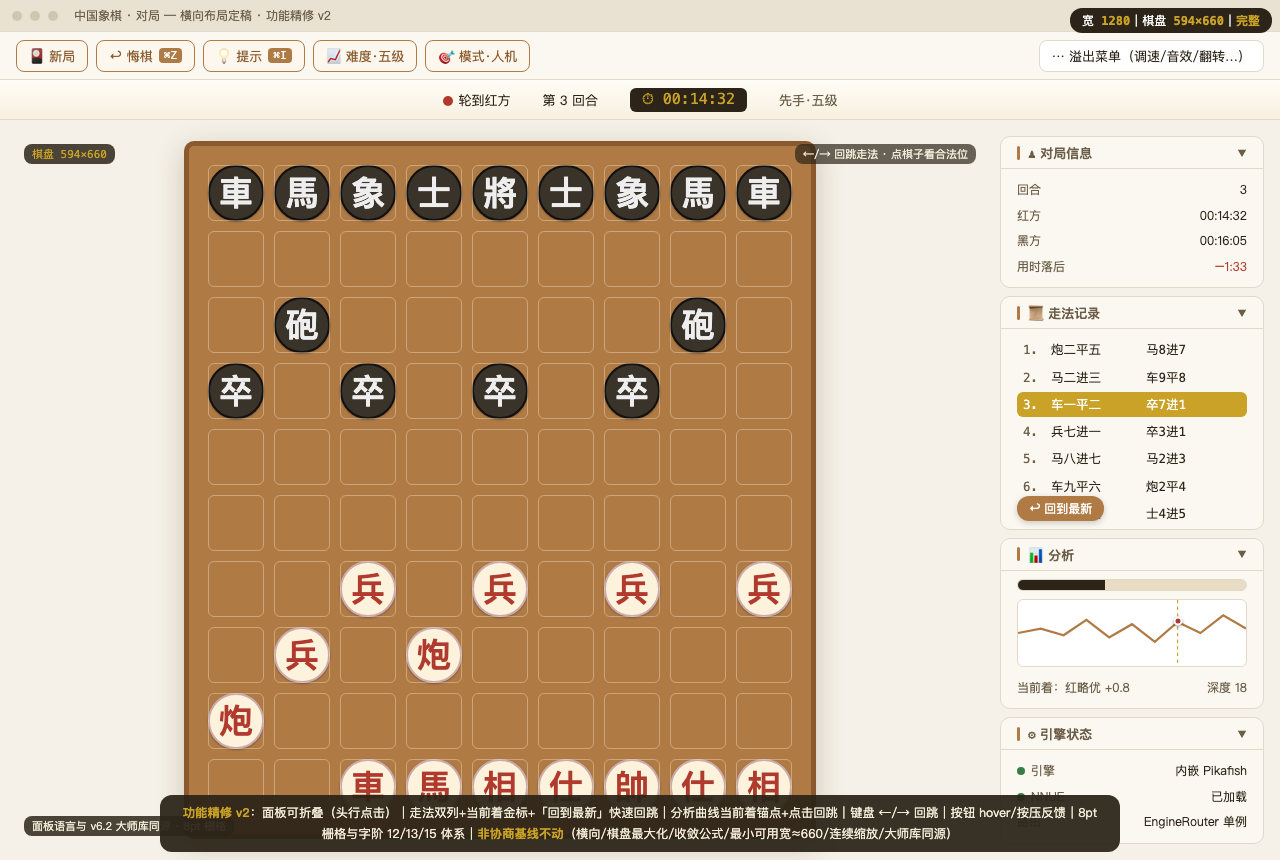
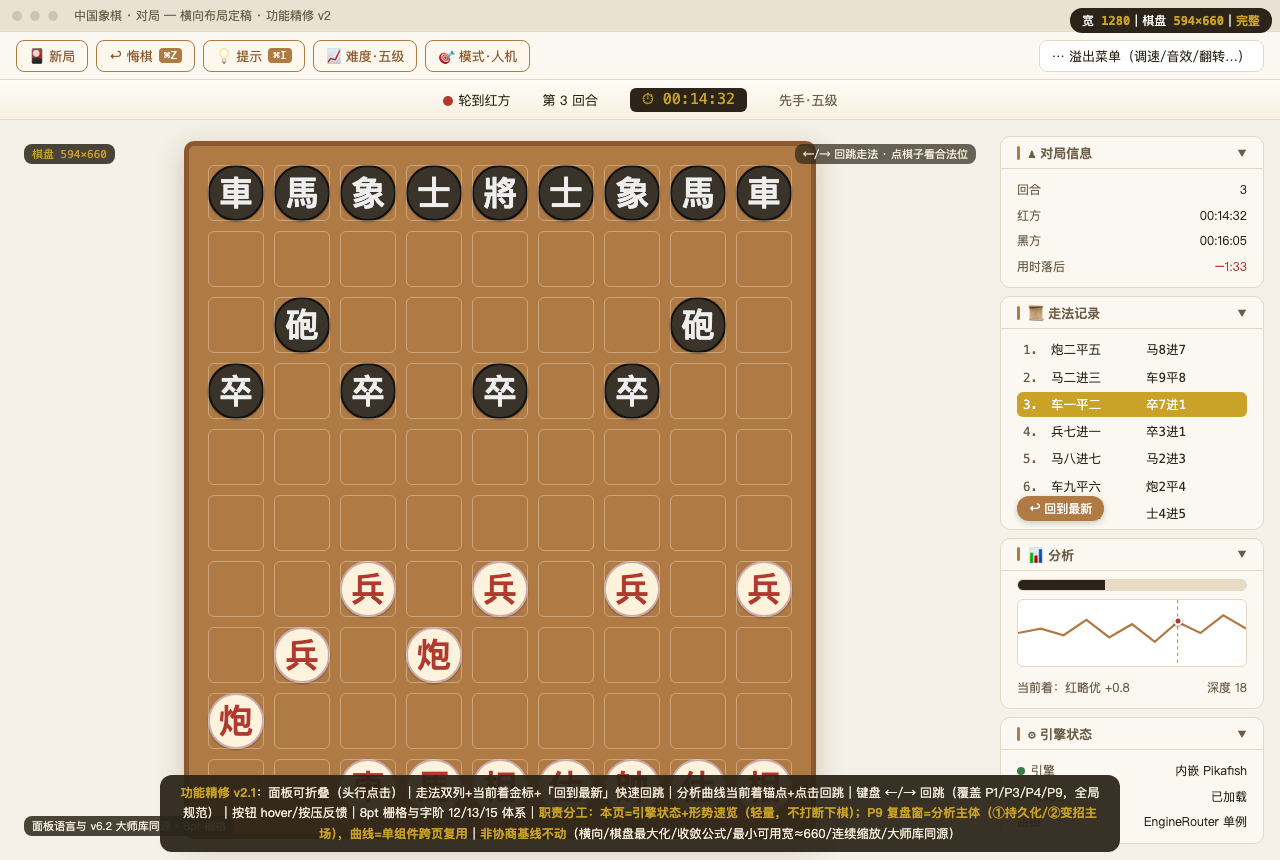
v6.4 layout: P2-P14 page prototypes (13 pages, P1 layout language; fixed note undefined)
[拆分注记 08-30] 原 8801f44 因并行窗口 add -A 误纳 Cody 四源文件（AssessmentStore/AnalysisPersistence/AnalysisViewModel/AnalysisPersistenceTests），已按 Luke 裁定 A 案拆分：本 commit 保留 layout docs 部分，Cody P2×4 修复独立成提交（自本拆分点）。后续 8bc34c3 变基重放。

Changed region(s): [[0.125, 0.8767, 0.875, 0.9977]]

diff --git a/docs/design/prototypes/v6.4-pages-p2-p14.html b/docs/design/prototypes/v6.4-pages-p2-p14.html
@@ -1,0 +1,301 @@
+<!DOCTYPE html>
+<html lang="zh-CN">
+<head>
+<meta charset="UTF-8">
+<title>v6.4 全页面原型 · P2-P14（布局语言=v6.4-p1-final v2.1：8pt 栅格/字阶 token/面板规格）</title>
+<style>
+  :root{--bg:#f5f1e8;--panel:#fbf8f1;--wood:#b07a45;--wood-d:#8a5a2e;--ink:#2c2418;--ink2:#6b5d48;
+    --line:#e2d9c8;--line2:#d4c8b0;--accent:#b03a2e;--gold:#c9a227;--ok:#3a7d44;
+    --s1:4px;--s2:8px;--s3:16px;--s4:24px;
+    --p-radius:10px;--p-head-h:32px;--fs-cap:12px;--fs-body:13px;--fs-title:15px;}
+  *{box-sizing:border-box;margin:0;padding:0}
+  html,body{height:100%}
+  body{background:var(--bg);color:var(--ink);font-family:"PingFang SC","Hiragino Sans GB",system-ui,sans-serif;overflow:hidden}
+  #nav{position:fixed;top:0;left:0;bottom:0;width:150px;background:var(--ink);z-index:99;display:flex;flex-direction:column;padding:12px 8px;gap:3px;overflow:auto}
+  #nav .brand{color:var(--gold);font-size:12px;font-weight:700;padding:4px 8px 10px}
+  #nav button{border:none;background:none;color:#cfc4ac;font-size:12px;text-align:left;padding:6px 10px;border-radius:7px;cursor:pointer;line-height:1.4}
+  #nav button:hover{background:rgba(255,255,255,.08)}
+  #nav button.on{background:var(--gold);color:var(--ink);font-weight:600}
+  .stage{position:fixed;inset:0 0 0 150px;display:flex;flex-direction:column}
+  .page{display:none;flex-direction:column;height:100vh}
+  .page.on{display:flex}
+  .titlebar{height:32px;background:#e9e2d2;border-bottom:1px solid var(--line);display:flex;align-items:center;padding:0 12px;font-size:12px;color:var(--ink2);gap:8px;flex:none}
+  .dot{width:9px;height:9px;border-radius:50%;background:#d0c6b0}
+  .toolbar{height:48px;display:flex;align-items:center;gap:var(--s2);padding:0 var(--s3);background:var(--panel);border-bottom:1px solid var(--line);flex:none}
+  .tb{height:32px;padding:0 12px;border:1px solid var(--line);border-radius:8px;background:#fff;font-size:var(--fs-body);display:flex;align-items:center;gap:6px;white-space:nowrap;cursor:pointer;transition:all .12s}
+  .tb:hover{border-color:var(--wood);background:#fdf7ee;transform:translateY(-1px);box-shadow:0 2px 6px rgba(138,90,46,.18)}
+  .tb.hot{border-color:var(--wood);color:var(--wood-d);background:#fdf7ee}
+  .tb .k{font-size:11px;color:#fff;background:var(--wood);border-radius:4px;padding:1px 5px;font-family:ui-monospace,monospace}
+  .search{flex:0 0 220px;height:32px;border:1px solid var(--line);border-radius:8px;background:#fff;display:flex;align-items:center;padding:0 10px;color:var(--ink2);font-size:13px;gap:6px}
+  .body{flex:1;display:flex;min-height:0;padding:var(--s3);gap:var(--s3)}
+  /* sidebar 分类（P2/P7/P13 统一语言） */
+  .sidebar{width:200px;background:var(--panel);border:1px solid var(--line);border-radius:var(--p-radius);padding:var(--s2);display:flex;flex-direction:column;gap:2px;flex:none;overflow:auto}
+  .sidebar .cat{padding:7px 10px;border-radius:7px;font-size:var(--fs-body);color:var(--ink);cursor:pointer;display:flex;justify-content:space-between;align-items:center}
+  .sidebar .cat:hover{background:#f3ebd9}
+  .sidebar .cat.on{background:var(--wood);color:#fff;font-weight:600}
+  .sidebar .cat .n{font-size:11px;opacity:.7}
+  .sidebar .search{flex:none;margin-bottom:6px}
+  /* 列表（右主区） */
+  .list{flex:1;background:var(--panel);border:1px solid var(--line);border-radius:var(--p-radius);overflow:auto;padding:var(--s2);display:flex;flex-direction:column;gap:var(--s2)}
+  .row{display:flex;align-items:center;gap:var(--s3);padding:10px var(--s3);border:1px solid var(--line);border-radius:8px;background:#fff;cursor:pointer;transition:all .12s}
+  .row:hover{border-color:var(--wood);transform:translateY(-1px);box-shadow:0 2px 6px rgba(138,90,46,.14)}
+  .row .t{font-size:var(--fs-body);font-weight:600}
+  .row .d{font-size:var(--fs-cap);color:var(--ink2);margin-top:2px}
+  .row .badge{margin-left:auto;font-size:11px;background:#f3ebd9;color:var(--wood-d);border-radius:10px;padding:2px 8px;white-space:nowrap}
+  /* 面板（大师库同源） */
+  .panel{background:var(--panel);border:1px solid var(--line);border-radius:var(--p-radius);display:flex;flex-direction:column;overflow:hidden}
+  .panel-h{height:var(--p-head-h);display:flex;align-items:center;padding:0 var(--s3);border-bottom:1px solid var(--line);font-size:var(--fs-body);font-weight:600;color:var(--ink2);gap:var(--s2);cursor:pointer;flex:none}
+  .panel-h:hover{background:#f6efe0}
+  .panel-h .tab{width:3px;height:14px;background:var(--wood);border-radius:2px}
+  .panel-h .chev{margin-left:auto;font-size:10px;color:var(--ink2)}
+  .panel-b{padding:var(--s2) var(--s3);font-size:var(--fs-body);line-height:1.8;overflow:auto}
+  /* 棋盘组件（P1 语言） */
+  .board{background:var(--wood);border:5px solid var(--wood-d);border-radius:10px;box-shadow:0 8px 28px rgba(90,60,20,.25)}
+  .grid{display:grid}
+  .cell{position:relative}.cell::after{content:"";position:absolute;inset:8%;border:1px solid rgba(255,248,230,.35);border-radius:6px}
+  .pc{position:absolute;inset:8%;border-radius:50%;display:flex;align-items:center;justify-content:center;font-weight:700;background:#fdf3dc;border:2px solid #caa;box-shadow:0 1px 2px rgba(0,0,0,.3);color:var(--accent)}
+  .pc.b{background:#3a332a;border-color:#111;color:#eee}
+  /* tab 组（P3/P4 右面板三 tab） */
+  .tabs{display:flex;gap:var(--s1);padding:var(--s2) var(--s3) 0}
+  .tabs .t2{padding:6px 12px;font-size:var(--fs-body);border-radius:8px 8px 0 0;cursor:pointer;color:var(--ink2);border:1px solid transparent}
+  .tabs .t2:hover{background:#f3ebd9}
+  .tabs .t2.on{background:var(--panel);border:1px solid var(--line);border-bottom-color:var(--panel);color:var(--wood-d);font-weight:600}
+  /* 卡片（P5/P11/P12） */
+  .cards{display:grid;grid-template-columns:repeat(auto-fill,minmax(220px,1fr));gap:var(--s3);overflow:auto;flex:1;align-content:start}
+  .card{background:var(--panel);border:1px solid var(--line);border-radius:var(--p-radius);padding:var(--s3);cursor:pointer;transition:all .12s;display:flex;flex-direction:column;gap:var(--s2)}
+  .card:hover{border-color:var(--wood);transform:translateY(-2px);box-shadow:0 4px 12px rgba(138,90,46,.16)}
+  .card.hero{grid-column:1/-1;flex-direction:row;align-items:center;background:linear-gradient(120deg,#fdf7ee,#f7ecd7);border-color:var(--wood)}
+  .card .ic{font-size:26px}
+  .card .t{font-size:var(--fs-title);font-weight:700}
+  .card .d{font-size:var(--fs-cap);color:var(--ink2);line-height:1.6}
+  .card .go{margin-left:auto;background:var(--wood);color:#fff;border-radius:14px;font-size:12px;padding:6px 14px;white-space:nowrap}
+  /* 进度/步骤（P5/P6） */
+  .steps{display:flex;gap:var(--s2)}
+  .step{flex:1;background:var(--panel);border:1px solid var(--line);border-radius:var(--p-radius);padding:var(--s3);text-align:center}
+  .step.on{border-color:var(--gold);background:#fdf8ea}
+  .step .n{font-size:18px;font-weight:800;color:var(--wood-d)}
+  .step .t{font-size:var(--fs-body);font-weight:600;margin-top:4px}
+  .step .d{font-size:var(--fs-cap);color:var(--ink2);margin-top:2px}
+  .bar{height:8px;background:#eee5d2;border-radius:4px;overflow:hidden}
+  .bar i{display:block;height:100%;background:var(--wood);border-radius:4px}
+  /* 棋树（P8） */
+  .tree{flex:0 0 320px;background:var(--panel);border:1px solid var(--line);border-radius:var(--p-radius);overflow:auto;padding:var(--s2)}
+  .tn{display:flex;gap:8px;padding:4px 8px;border-radius:6px;font-family:ui-monospace,monospace;font-size:12.5px;cursor:pointer;align-items:center}
+  .tn:hover{background:#f3ebd9}.tn.on{background:var(--gold);color:#fff}
+  .tn .in{width:14px;color:var(--ink2);font-size:10px}
+  .tn .ev{margin-left:auto;font-size:11px;color:var(--ink2)}
+  /* 图表（P11） */
+  .chart{height:90px;background:#fff;border:1px solid var(--line);border-radius:6px;position:relative;overflow:hidden}
+  .chart svg{position:absolute;inset:0;width:100%;height:100%}
+  .radar{width:110px;height:110px;flex:none}
+  .stat{display:flex;justify-content:space-between;font-size:var(--fs-cap);color:var(--ink2);padding:2px 0}
+  .stat .v{color:var(--ink)}
+  .dot-ok{display:inline-block;width:8px;height:8px;border-radius:50%;background:var(--ok);margin-right:6px}
+  .moves{font-family:ui-monospace,monospace;font-size:12.5px}
+  .mvrow{display:grid;grid-template-columns:28px 1fr 1fr;padding:2px 6px;border-radius:6px;cursor:pointer;line-height:1.7}
+  .mvrow:hover{background:#f3ebd9}.mvrow.cur{background:var(--gold);color:#fff}.mvrow.cur .no{color:#fff}
+  .no{color:var(--ink2)}
+  .note{position:fixed;bottom:8px;left:158px;right:8px;z-index:99;background:rgba(44,36,24,.94);color:#f3ecd9;border-radius:11px;padding:7px 14px;font-size:12px;line-height:1.6;text-align:center}
+  .note b{color:var(--gold)}
+  .win{background:#fff;border:1px solid var(--line2);border-radius:12px;box-shadow:0 12px 40px rgba(0,0,0,.22);display:flex;flex-direction:column;overflow:hidden}
+  .win .wh{height:34px;background:#eee7d6;border-bottom:1px solid var(--line);display:flex;align-items:center;padding:0 12px;font-size:12px;color:var(--ink2);gap:8px;flex:none}
+  .evalbar{height:12px;border-radius:6px;background:linear-gradient(90deg,var(--ink) 38%,#e8ddc4 38%);border:1px solid var(--line)}
+</style>
+</head>
+<body>
+<div id="nav"><div class="brand">v6.4 · 14 页<br><span style="font-weight:400;font-size:10px;color:#cfc4ac">P1 已定稿</span></div></div>
+<div class="stage" id="stage"></div>
+<div class="note" id="note"></div>
+<script>
+/* ============ 共用资产 ============ */
+const rows='rnbakabnr__________c_____c_p_p_p_p______________________P_P_P_P_P_C_____C__________RNBAKABNR'.slice(0,90).split('');
+const zh={r:'車',n:'馬',b:'象',a:'士',k:'將',c:'砲',p:'卒',R:'車',N:'馬',B:'相',A:'仕',K:'帥',C:'炮',P:'兵'};
+function boardHTML(){return '<div class="board"><div class="grid bd"></div></div>'}
+function buildBoards(root){root.querySelectorAll('.grid.bd').forEach(g=>{g.innerHTML='';
+  for(let i=0;i<90;i++){const c=document.createElement('div');c.className='cell';
+    const ch=rows[i];if(ch&&ch!=='_'){const p=document.createElement('div');p.className='pc'+(i<45?' b':'');p.textContent=zh[ch]||'?';c.appendChild(p);}
+    g.appendChild(c);}
+  const zone=g.closest('.z2')||g.parentElement.parentElement;
+  function fit(){const W=zone.clientWidth-16,H=zone.clientHeight-16;
+    const cell=Math.max(16,Math.floor(Math.min((W-14)/9,(H-14)/10)));
+    g.style.gridTemplateColumns=`repeat(9,${cell}px)`;g.style.gridTemplateRows=`repeat(10,${cell}px)`;
+    const b=g.parentElement,pad=Math.max(Math.min(W,H)*0.04,cell*0.45);b.style.padding=`${Math.min(pad,12)}px`;
+    g.querySelectorAll('.pc').forEach(p=>p.style.fontSize=Math.round(cell*0.5)+'px');}
+  new ResizeObserver(fit).observe(zone);setTimeout(fit,30);});}
+function movesHTML(n,start){let h='';for(let i=0;i<n;i++){h+=`<div class="mvrow${i===start?' cur':''}"><span class="no">${i+1}.</span><span>炮二平五</span><span>马8进7</span></div>`}return h}
+const evalSVG='<svg viewBox="0 0 200 60" preserveAspectRatio="none"><polyline points="0,30 20,26 40,32 60,18 80,34 100,22 120,38 140,20 160,30 180,14 200,26" fill="none" stroke="#b07a45" stroke-width="2"/></svg>';
+const radarSVG='<svg viewBox="0 0 100 100"><polygon points="50,8 88,35 74,80 26,80 12,35" fill="none" stroke="#d4c8b0"/><polygon points="50,20 76,39 67,70 33,68 24,39" fill="rgba(176,122,69,.35)" stroke="#b07a45"/><line x1="50" y1="50" x2="50" y2="8" stroke="#e2d9c8"/><line x1="50" y1="50" x2="88" y2="35" stroke="#e2d9c8"/><line x1="50" y1="50" x2="74" y2="80" stroke="#e2d9c8"/><line x1="50" y1="50" x2="26" y2="80" stroke="#e2d9c8"/><line x1="50" y1="50" x2="12" y2="35" stroke="#e2d9c8"/></svg>';
+const T=(t)=>`<div class="titlebar"><span class="dot"></span><span class="dot"></span><span class="dot"></span><span style="margin-left:8px">${t}</span></div>`;
+const cat=(name,n,on)=>`<div class="cat${on?' on':''}"><span>${name}</span><span class="n">${n}</span></div>`;
+const panel=(title,body,grow)=>`<div class="panel"${grow?' style="flex:1"':''}><div class="panel-h"><span class="tab"></span>${title}<span class="chev">▼</span></div><div class="panel-b" style="${grow?'overflow:auto':''}">${body}</div></div>`;
+
+/* ============ 13 页定义 ============ */
+const PAGES={
+P2:{t:'中国象棋 · 大师库 — 浏览（P2）',n:'P2 大师库·浏览｜sidebar 化统一语言（治横滚标签栏）+ 搜索入 sidebar 顶 + 行式列表',h:`
+ ${T('中国象棋 · 大师库 — 浏览')}
+ <div class="toolbar"><div class="tb hot">🔙 返回</div><div class="tb">⭐ 收藏</div><div class="tb">🕘 历史</div><div class="tb" style="margin-left:auto">📥 导入棋谱</div></div>
+ <div class="body">
+  <div class="sidebar"><div class="search">🔍 搜索大师/开局…</div>${cat('全部','1,248',1)}${cat('按大师','312')}${cat('按开局','486')}${cat('按年份','204')}${cat('收藏','36')}</div>
+  <div class="list">
+   <div class="row"><div><div class="t">胡荣华 vs 杨官璘 · 1960 全国个人赛</div><div class="d">中炮过河车对屏风马平炮兑车 · 37 回合 · 红胜</div></div><div class="badge">经典 ⭐4.9</div></div>
+   <div class="row"><div><div class="t">许银川 vs 吕钦 · 1996 五羊杯</div><div class="d">飞相局对士角炮 · 41 回合 · 和棋</div></div><div class="badge">⭐4.8</div></div>
+   <div class="row"><div><div class="t">王天一 vs 郑惟桐 · 2018 象甲</div><div class="d">起马局 · 28 回合 · 黑胜</div></div><div class="badge">⭐4.7</div></div>
+   <div class="row"><div><div class="t">柳大华 vs 李来群 · 1984</div><div class="d">顺炮直车对横车 · 53 回合 · 红胜</div></div><div class="badge">⭐4.6</div></div>
+  </div></div>`},
+P3:{t:'中国象棋 · 大师库 — 播放（P3）',n:'P3 播放｜棋盘最大化 + 右三tab（信息/点评/走法）密度调优；单屏零滚动目标',h:`
+ ${T('中国象棋 · 大师库 — 播放')}
+ <div class="toolbar"><div class="tb hot">🔙 库</div><div class="tb">⭐ 收藏</div><div class="tb">◀ 上一步</div><div class="tb">▶ 播放</div><div class="tb">▶▶ 下一步</div><div class="tb" style="margin-left:auto">调速 1× ▾</div></div>
+ <div class="body">
+  <div class="z2" style="flex:1;display:flex;align-items:center;justify-content:center;min-width:0">${boardHTML()}</div>
+  <div style="width:280px;display:flex;flex-direction:column;gap:8px;flex:none">
+   <div class="panel" style="flex:none"><div class="tabs"><div class="t2 on">信息</div><div class="t2">点评</div><div class="t2">走法</div></div>
+    <div class="panel-b"><div class="stat"><span>对局</span><span class="v">胡荣华 vs 杨官璘</span></div><div class="stat"><span>赛事</span><span class="v">1960 全国个人赛</span></div><div class="stat"><span>开局</span><span class="v">中炮过河车</span></div><div class="stat"><span>当前</span><span class="v">第 12 回合 · 黑行棋</span></div></div></div>
+   ${panel('📜 走法记录','<div class="moves">'+movesHTML(8,4)+'</div>',1)}
+  </div></div>`},
+P4:{t:'中国象棋 · 演示页（P4 · 重点区A）',n:'P4 演示｜重点区A：三tab信息密度重排+控制条，1440×900 单屏"看棋+读评+步进"零滚动',h:`
+ ${T('中国象棋 · 演示 — 大师局/残局')}
+ <div class="toolbar"><div class="tb hot">🔙 列表</div><div class="tb">◀ 上一步</div><div class="tb">▶ 播放</div><div class="tb">▶▶ 下一步</div><div class="tb">🔁 重头</div><div class="tb" style="margin-left:auto">调速 1× ▾</div></div>
+ <div class="body">
+  <div class="z2" style="flex:1;display:flex;align-items:center;justify-content:center;min-width:0">${boardHTML()}</div>
+  <div style="width:300px;display:flex;flex-direction:column;gap:8px;flex:none">
+   <div class="panel"><div class="tabs"><div class="t2">信息</div><div class="t2 on">点评</div><div class="t2">走法</div></div>
+    <div class="panel-b" style="max-height:220px;overflow:auto;font-size:12.5px;line-height:1.75">第 11 回合红方弃马抢先，看似失子实则暗藏车九平六的先手链条——胡氏"鬼魅残功"的早期雏形。黑方若应以马3退4则中路门户洞开……<br><span style="color:var(--ink2)">（点评区滚动高度自适应，头部信息卡压缩为一条）</span></div></div>
+   ${panel('📜 走法（双列）','<div class="moves">'+movesHTML(12,9)+'</div>',1)}
+   <div class="panel"><div class="panel-b" style="display:flex;gap:8px;align-items:center"><span style="font-size:12px;color:var(--ink2)">进度</span><div class="bar" style="flex:1"><i style="width:62%"></i></div><span style="font-size:12px">23/37</span></div></div>
+  </div></div>`},
+P5:{t:'中国象棋 · 学棋中心（P5 · 重点区B）',n:'P5 学棋中心｜教程并入引导流 + 主卡"继续上次学习" + 卡片栅格；进度环克制不加（洪涛拍板）',h:`
+ ${T('中国象棋 · 学棋中心')}
+ <div class="toolbar"><div class="tb hot">🎯 继续：中炮入门 · 第 3 节</div><div class="tb" style="margin-left:auto">📊 学习统计</div></div>
+ <div class="body"><div class="cards">
+  <div class="card hero"><div class="ic">▶</div><div><div class="t">继续上次学习</div><div class="d">中炮入门 · 第 3 节"过河车的攻防" · 已学 60%</div><div class="bar" style="margin-top:8px;width:280px"><i style="width:60%"></i></div></div><div class="go">继续 ▸</div></div>
+  <div class="card"><div class="ic">📘</div><div class="t">新手教程四步</div><div class="d">规则 → 基本杀法 → 开局原则 → 入门实战</div></div>
+  <div class="card"><div class="ic">♟</div><div class="t">残局挑战</div><div class="d">每日三题 · 当前连对 5</div></div>
+  <div class="card"><div class="ic">🧩</div><div class="t">战术专项</div><div class="d">双重威胁 / 闪击 / 牵制 12 关</div></div>
+  <div class="card"><div class="ic">👑</div><div class="t">大师模仿局</div><div class="d">跟胡荣华学中局 8 局</div></div>
+  <div class="card"><div class="ic">📈</div><div class="t">我的成长</div><div class="d">胜率趋势 / 弱点雷达</div></div>
+ </div></div>`},
+P6:{t:'中国象棋 · 教程（P6 · 并入重点区B）',n:'P6 教程四步｜作为学棋中心引导流（首访），分步页与 P5 动线打通',h:`
+ ${T('中国象棋 · 新手教程')}
+ <div class="toolbar"><div class="tb hot">🔙 学棋中心</div><div class="tb">⏭ 跳过教程</div></div>
+ <div class="body" style="flex-direction:column;gap:16px">
+  <div class="steps">
+   <div class="step on"><div class="n">1</div><div class="t">棋规速览</div><div class="d">走法与胜负 · 3 分钟</div></div>
+   <div class="step"><div class="n">2</div><div class="t">基本杀法</div><div class="d">卧槽马/铁门栓 · 5 分钟</div></div>
+   <div class="step"><div class="n">3</div><div class="t">开局原则</div><div class="d">出子快/占要道 · 4 分钟</div></div>
+   <div class="step"><div class="n">4</div><div class="t">入门实战</div><div class="d">跟 AI 下一盘 · 实战</div></div>
+  </div>
+  <div style="flex:1;display:flex;gap:16px;min-height:0">
+   <div class="z2" style="flex:1;display:flex;align-items:center;justify-content:center">${boardHTML()}</div>
+   <div style="width:320px;display:flex;flex-direction:column;gap:8px;flex:none">
+    ${panel('📖 本节要点','<ul style="padding-left:18px;font-size:13px;line-height:2"><li>马走"日"字，可被蹩马腿</li><li>象走"田"字，不过河界</li><li>车直行无阻，火力最强</li><li>炮吃子须隔一个"炮架"</li></ul>',1)}
+    <div class="panel"><div class="panel-b" style="display:flex;gap:8px"><div class="tb hot" style="flex:1;justify-content:center">✓ 我记住了 · 下一步</div></div></div>
+   </div>
+  </div></div>`},
+P7:{t:'中国象棋 · 开局教练选择（P7）',n:'P7 开局教练｜HSplitView 改 sidebar 统一（与 P2/P13 同语言，治分类三态不一）',h:`
+ ${T('中国象棋 · 开局教练')}
+ <div class="toolbar"><div class="tb hot">🔙 学棋中心</div><div class="search">🔍 搜开局…</div></div>
+ <div class="body">
+  <div class="sidebar">${cat('热门开局','18',1)}${cat('中炮系','6')}${cat('飞相系','4')}${cat('起马局','3')}${cat('仙人指路','3')}${cat('士角炮','2')}</div>
+  <div class="list">
+   <div class="row"><div><div class="t">中炮过河车</div><div class="d">急攻型 · 攻击 ★★★★ · 上手中等 · 12 课</div></div><div class="badge">已学 30%</div></div>
+   <div class="row"><div><div class="t">屏风马</div><div class="d">稳健型 · 防守 ★★★★ · 上手易 · 10 课</div></div><div class="badge">新</div></div>
+   <div class="row"><div><div class="t">飞相局</div><div class="d">柔中带刚 · 先手 ★★★ · 上手难 · 8 课</div></div><div class="badge">推荐</div></div>
+   <div class="row"><div><div class="t">起马局</div><div class="d">散手型 · 灵活 ★★★ · 上手易 · 6 课</div></div><div class="badge">新</div></div>
+  </div></div>`},
+P8:{t:'中国象棋 · 开局探索器（P8）',n:'P8 探索器｜棋树固定窄栏 320 + 棋盘吃满余量；节点行高压缩带胜率',h:`
+ ${T('中国象棋 · 开局探索器')}
+ <div class="toolbar"><div class="tb hot">🔙 学棋中心</div><div class="tb">↺ 回起始</div><div class="tb">⬅ 后退</div><div class="search">🔍 搜局面…</div></div>
+ <div class="body">
+  <div class="tree">
+   <div class="tn on"><span class="in">▾</span>起始局面<span class="ev">—</span></div>
+   <div class="tn" style="padding-left:22px"><span class="in">▾</span>炮二平五<span class="ev">红 41%</span></div>
+   <div class="tn on" style="padding-left:36px"><span class="in">▸</span>马8进7<span class="ev">红 38%</span></div>
+   <div class="tn" style="padding-left:50px"><span class="in">·</span>车一平二<span class="ev">红 40%</span></div>
+   <div class="tn" style="padding-left:50px"><span class="in">·</span>车9平8<span class="ev">红 37%</span></div>
+   <div class="tn" style="padding-left:36px"><span class="in">·</span>卒7进1<span class="ev">红 39%</span></div>
+   <div class="tn" style="padding-left:22px"><span class="in">▸</span>相三进五<span class="ev">红 36%</span></div>
+   <div class="tn" style="padding-left:22px"><span class="in">▸</span>兵七进一<span class="ev">红 38%</span></div>
+  </div>
+  <div class="z2" style="flex:1;display:flex;align-items:center;justify-content:center">${boardHTML()}</div>
+  <div style="width:240px;display:flex;flex-direction:column;gap:8px;flex:none">
+   ${panel('📊 当前局面','<div class="stat"><span>胜率（大师库）</span><span class="v">红 40%</span></div><div class="stat"><span>出现局数</span><span class="v">1,862</span></div><div class="stat"><span>常见应手</span><span class="v">马8进7 · 64%</span></div>',1)}
+  </div></div>`},
+P9:{t:'中国象棋 · 复盘/分析 — 独立窗口（P9）',n:'P9 复盘｜独立窗口 760×820 起步可最大化（图内演示高度压缩）；分析侧 25% 带；控制条=对局页语言移植；**职责分工：对局页=引擎状态+形势速览（轻量，不打断下棋）；P9=复盘分析主体（①持久化/②变招展示主场）**；评估曲线=单 SwiftUI 组件跨页复用（含 EvalChartScale mate 特判）',h:`
+ ${T('中国象棋 · 主窗口（演示：复盘已开独立窗口）')}
+ <div class="body" style="align-items:center;justify-content:center;background:repeating-linear-gradient(45deg,#f5f1e8,#f5f1e8 12px,#efe9db 12px,#efe9db 24px)">
+  <div class="win" style="width:760px;height:560px">
+   <div class="wh"><span class="dot"></span><span class="dot"></span><span class="dot"></span><span style="margin-left:8px">复盘 · 胡荣华 vs 杨官璘（独立窗口 760×820 起步 · 可最大化）</span></div>
+   <div style="display:flex;gap:8px;padding:8px 12px;border-bottom:1px solid var(--line);align-items:center;flex:none"><div class="tb hot" style="height:28px">◀ 上一步</div><div class="tb" style="height:28px">▶ 播放</div><div class="tb" style="height:28px">▶▶ 下一步</div><div class="tb" style="height:28px">↩ 回到最新</div><div class="tb" style="height:28px;margin-left:auto">调速 1× ▾</div></div>
+   <div style="flex:1;display:flex;min-height:0">
+    <div class="z2" style="flex:3;display:flex;align-items:center;justify-content:center">${boardHTML()}</div>
+    <div style="flex:1;min-width:190px;border-left:1px solid var(--line);display:flex;flex-direction:column;gap:6px;padding:8px">
+     <div class="evalbar"></div>
+     ${panel('📈 评估','<div class="chart">'+evalSVG+'</div>')}
+     <div class="panel"><div class="panel-b" style="display:flex;flex-direction:column;gap:4px"><div class="mvrow cur"><span class="no">12.</span><span>车9平8</span><span></span></div><div class="mvrow"><span class="no">13.</span><span>车二进六</span><span></span></div><div class="mvrow"><span class="no">14.</span><span>马7进6</span><span></span></div></div></div>
+     <div class="panel" style="flex:1"><div class="panel-h" style="height:28px"><span class="tab"></span>🌲 分支<span class="chev">▼</span></div><div class="panel-b" style="font-size:12px;color:var(--ink2)">① 主变 …<br>② 变着：卒7进1</div></div>
+    </div>
+   </div>
+  </div></div>`},
+P10:{t:'中国象棋 · 设置（P10）',n:'P10 设置｜低优：tab 表单规范（8pt 间距/统一控件规格）',h:`
+ ${T('中国象棋 · 设置')}
+ <div class="toolbar"><div class="tb hot on">通用</div><div class="tb">对局</div><div class="tb">引擎</div><div class="tb">外观</div><div class="tb">关于</div></div>
+ <div class="body"><div style="flex:1;max-width:560px;margin:0 auto;display:flex;flex-direction:column;gap:8px">
+  ${panel('通用','<div class="stat"><span>启动时打开</span><span class="v">上次的页面 ▾</span></div><div class="stat"><span>音效</span><span class="v">开</span></div><div class="stat"><span>自动保存对局</span><span class="v">开</span></div><div class="stat"><span>语言</span><span class="v">简体中文</span></div>')}
+  ${panel('数据','<div class="stat"><span>棋谱存储位置</span><span class="v">~/Documents/ChineseChess</span></div><div class="stat"><span>分析结果缓存</span><span class="v">12.4 MB</span></div><div style="display:flex;gap:8px;margin-top:8px"><div class="tb">🧹 清理缓存</div><div class="tb">📤 导出全部棋谱</div></div>')}
+  ${panel('Elo 展示（校准期）','<div class="stat"><span>水平评估</span><span class="v">相对模式（超过 62% 对局水平）</span></div><div style="font-size:12px;color:var(--ink2);margin-top:4px">校准完成后恢复绝对值 · 见 v6.4 ④</div>')}
+ </div></div>`},
+P11:{t:'中国象棋 · 成就/统计（P11）',n:'P11 成就/统计｜低优：卡片+图表套语言；雷达=Vera 极端值 B2 修复位（clamp+NaN）',h:`
+ ${T('中国象棋 · 成就与统计')}
+ <div class="toolbar"><div class="tb hot">📊 统计</div><div class="tb">🏆 成就</div></div>
+ <div class="body"><div class="cards">
+  <div class="card"><div class="t">对局总数</div><div style="font-size:28px;font-weight:800;color:var(--wood-d)">326</div><div class="d">本月 +24</div></div>
+  <div class="card"><div class="t">胜率（五级）</div><div style="font-size:28px;font-weight:800;color:var(--wood-d)">58%</div><div class="bar" style="margin-top:6px"><i style="width:58%"></i></div></div>
+  <div class="card"><div class="t">连胜纪录</div><div style="font-size:28px;font-weight:800;color:var(--wood-d)">7</div><div class="d">当前 3</div></div>
+  <div class="card" style="flex-direction:row;align-items:center;gap:16px"><div class="radar">${radarSVG}</div><div><div class="t">六维雷达</div><div class="d">杀棋敏感度 72<br>开局 64 · 中局 58<br>残局 61 · 防守 55<br>战术 68</div></div></div>
+  <div class="card"><div class="t">月度胜率</div><div class="chart" style="height:70px">${evalSVG}</div></div>
+  <div class="card"><div class="t">成就进度</div><div class="d">38/52 枚</div><div class="bar" style="margin-top:6px"><i style="width:73%"></i></div></div>
+ </div></div>`},
+P12:{t:'中国象棋 · 每日挑战（P12）',n:'P12 每日挑战｜低优：卡片入口套语言',h:`
+ ${T('中国象棋 · 每日挑战')}
+ <div class="body"><div class="cards" style="max-width:720px;margin:0 auto">
+  <div class="card hero"><div class="ic">🗓</div><div><div class="t">今日残局 · 第 241 期</div><div class="d">红先胜 · 难度 ★★★ · 已连对 5 天</div></div><div class="go">开始 ▸</div></div>
+  <div class="card"><div class="ic">🔥</div><div class="t">连对奖励</div><div class="d">7 天连对 → "七步追魂" 称号</div></div>
+  <div class="card"><div class="ic">🕰</div><div class="t">补签</div><div class="d">本月还可补 2 次</div></div>
+ </div></div>`},
+P13:{t:'中国象棋 · 残局/战术（P13）',n:'P13 残局/战术｜与 P2 同病同治：横滚过滤栏 → sidebar 化统一',h:`
+ ${T('中国象棋 · 残局与战术')}
+ <div class="toolbar"><div class="tb hot">🔙 学棋中心</div><div class="search">🔍 搜残局…</div></div>
+ <div class="body">
+  <div class="sidebar">${cat('全部残局','96',1)}${cat('一步杀','24')}${cat('双将杀','18')}${cat('战术·闪击','20')}${cat('战术·牵制','16')}${cat('已通关','31')}</div>
+  <div class="list">
+   <div class="row"><div><div class="t">残局 001 · 老兵建功</div><div class="d">一步杀 · ★ · 红先</div></div><div class="badge">✓ 已通关</div></div>
+   <div class="row"><div><div class="t">残局 024 · 双车错</div><div class="d">双将杀 · ★★★ · 红先</div></div><div class="badge">进行中</div></div>
+   <div class="row"><div><div class="t">战术 007 · 闪击抽车</div><div class="d">闪击 · ★★ · 红先</div></div><div class="badge">新</div></div>
+   <div class="row"><div><div class="t">战术 012 · 丝线牵牛</div><div class="d">牵制 · ★★★ · 黑先</div></div><div class="badge">新</div></div>
+  </div></div>`},
+P14:{t:'中国象棋 · 排位/关于（P14）',n:'P14 排位/关于/隐私｜静态页：套风格语言即可（排位分=R3 拍板相对指标口径）',h:`
+ ${T('中国象棋 · 排位与关于')}
+ <div class="body"><div style="flex:1;max-width:640px;margin:0 auto;display:flex;flex-direction:column;gap:8px">
+  ${panel('🏅 排位（校准期口径）','<div class="stat"><span>当前段位</span><span class="v">三级 · 中游</span></div><div class="stat"><span>相对水平</span><span class="v">超过 62% 对局水平 ↗</span></div><div class="bar" style="margin-top:6px"><i style="width:62%"></i></div><div style="font-size:12px;color:var(--ink2);margin-top:6px">rankProgress 下限钳制（B2 修复位）：进度不出现负值</div>')}
+  ${panel('ℹ 关于','<div class="stat"><span>版本</span><span class="v">6.4 (原型期)</span></div><div class="stat"><span>引擎</span><span class="v">内嵌 Pikafish · 自研混合</span></div><div class="stat"><span>反馈</span><span class="v">support@example.com</span></div>')}
+  ${panel('🔒 隐私','<div style="font-size:12.5px;color:var(--ink2);line-height:1.8">棋谱与学习记录仅存储于本机；不含任何追踪或广告 SDK。分析结果缓存可随时在设置中清除。</div>')}
+ </div></div>`}
+};
+
+/* ============ 渲染框架 ============ */
+const nav=document.getElementById('nav'),stage=document.getElementById('stage'),note=document.getElementById('note');
+Object.entries(PAGES).forEach(([k,p])=>{
+  const b=document.createElement('button');b.textContent=k+' '+({P2:'大师库·浏览',P3:'库·播放',P4:'演示页',P5:'学棋中心',P6:'教程四步',P7:'开局教练',P8:'探索器',P9:'复盘·独立窗',P10:'设置',P11:'成就统计',P12:'每日挑战',P13:'残局战术',P14:'排位关于'}[k]);
+  b.dataset.k=k;b.onclick=()=>{location.hash=k;};nav.appendChild(b);
+  const d=document.createElement('div');d.className='page';d.id='pg'+k;d.innerHTML=p.h;stage.appendChild(d);});
+function show(k){if(!PAGES[k])k='P2';
+  document.querySelectorAll('.page').forEach(e=>e.classList.toggle('on',e.id==='pg'+k));
+  document.querySelectorAll('#nav button').forEach(b=>b.classList.toggle('on',b.dataset.k===k));
+  const narrow='｜全局窄窗口径：sidebar 页（P2/P7/P13）复用 1000/1080 迟滞收左栏；卡片页（P5/P11/P12）auto-fill 天然弹性；P8 <1080 收右侧统计栏、<900 棋树折叠为顶部下拉；P3/P4/P9 同 P1（<1000 收右栏）｜←/→ 步进口径覆盖 P1/P3/P4/P9（全局交互规范）';
+  note.innerHTML='<b>'+k+'｜</b>'+PAGES[k].n+narrow;
+  buildBoards(document.getElementById('pg'+k));}
+addEventListener('hashchange',()=>show(location.hash.slice(1)));
+show(location.hash.slice(1));
+</script>
+</body>
+</html>

diff --git a/docs/design/prototypes/v6.4-p1-final.html b/docs/design/prototypes/v6.4-p1-final.html
@@ -109,7 +109,7 @@
     </div>
   </div>
 </div>
-<div class="note"><b>功能精修 v2</b>：面板可折叠（头行点击）｜走法双列+当前着金标+「回到最新」快速回跳｜分析曲线当前着锚点+点击回跳｜键盘 ←/→ 回跳｜按钮 hover/按压反馈｜8pt 栅格与字阶 12/13/15 体系｜<b>非协商基线不动</b>（横向/棋盘最大化/收敛公式/最小可用宽≈660/连续缩放/大师库同源）</div>
+<div class="note"><b>功能精修 v2.1</b>：面板可折叠（头行点击）｜走法双列+当前着金标+「回到最新」快速回跳｜分析曲线当前着锚点+点击回跳｜键盘 ←/→ 回跳（覆盖 P1/P3/P4/P9，全局规范）｜按钮 hover/按压反馈｜8pt 栅格与字阶 12/13/15 体系｜<b>职责分工：本页=引擎状态+形势速览（轻量，不打断下棋）；P9 复盘窗=分析主体（①持久化/②变招主场），曲线=单组件跨页复用</b>｜<b>非协商基线不动</b>（横向/棋盘最大化/收敛公式/最小可用宽≈660/连续缩放/大师库同源）</div>
 <script>
 const rows='rnbakabnr__________c_____c_p_p_p_p______________________P_P_P_P_P_C_____C__________RNBAKABNR'.slice(0,90).split('');
 const zh={r:'車',n:'馬',b:'象',a:'士',k:'將',c:'砲',p:'卒',R:'車',N:'馬',B:'相',A:'仕',K:'帥',C:'炮',P:'兵'};
